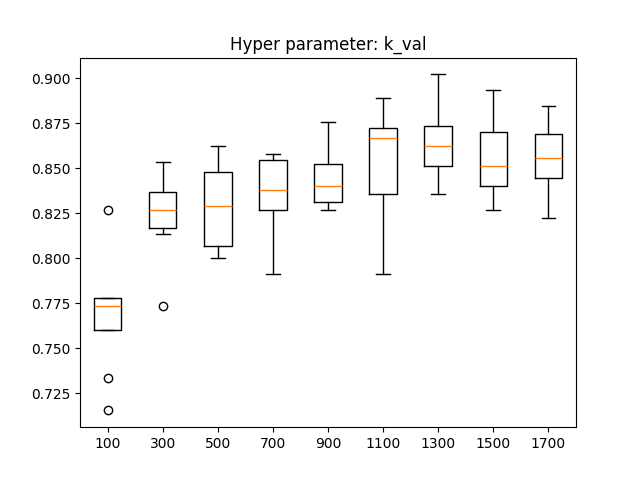
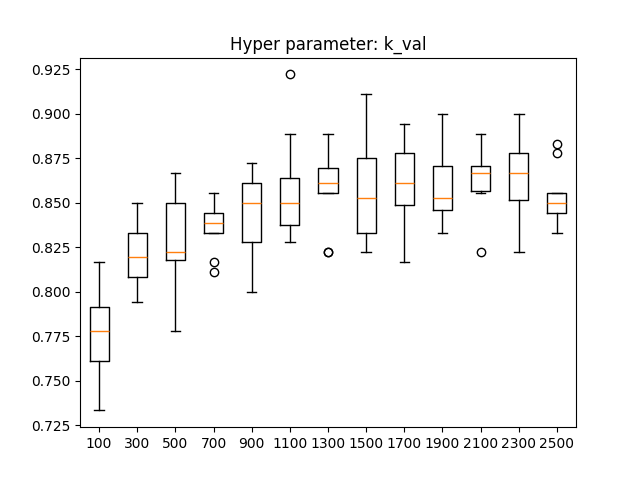
added some plots for flipped images

diff --git a/project2/code/xgboost_classifier.py b/project2/code/xgboost_classifier.py
@@ -55,6 +55,7 @@ class XGBoost:
         ).to(device)
 
         self.fit(x_train, y_train)
+
         score = self.score(x_val, y_val)
         return score
 
@@ -94,11 +95,11 @@ def main():
 
     training_labels = np.load("./data/train_labels.npy")
     training_matrix = np.load("./data/train_matrix.npy")
-    # training_matrix = np.load("./data/train_matrix_0.5_flipped.npy")
+    training_matrix = np.load("./data/train_matrix_0.5_flipped.npy")
 
     test_labels = np.load("./data/test_labels.npy")
     test_matrix = np.load("./data/test_matrix.npy")
-    # test_matrix = np.load("./data/test_matrix_0.5_flipped.npy")
+    test_matrix = np.load("./data/test_matrix_0.5_flipped.npy")
 
     classifier_settings = {
         "n_estimators": 100,
@@ -111,7 +112,7 @@ def main():
         "n_jobs": -1,
         "device": "cuda" if torch.cuda.is_available() else "cpu",
     }
-    training_settings = {"k_val": None, "lasso_c": 0.1}
+    training_settings = {"k_val": None, "lasso_c": None}
 
     kCV_settings = {
         "k": 10,
@@ -128,8 +129,9 @@ def main():
 
     params = [classifier_settings, training_settings, kCV_settings]
 
-    values = [1, 0.5, 0.25, 0.1, 0.05, 0.025, 0.001]
-    hyper_parameter_opt("lasso_c", values, "train", params, "xgboost")
+    # values = [100, 300, 500, 700, 900, 1100, 1300, 1500, 1700, 1900, 2100, 2300, 2500]
+    # values = [1, 0.5, 0.25, 0.1, 0.05, 0.025, 0.01, 0.005, 0.0025, 0.001]
+    # hyper_parameter_opt("lasso_c", values, "train", params, "xgboost_flipped")
 
     # save_model="./saved_models/xgboost_flipped.pkl")
 
@@ -143,6 +145,15 @@ def main():
 
     # print(f"Test accuracy: {test_accuracy:.4f}")
     # print("XGBoost model trained, saved, loaded, and evaluated successfully")
+    train_data = training_matrix, training_labels
+    test_data = test_matrix, test_labels
+
+    lasso_model = XGBoost(**classifier_settings)
+    score_lasso = lasso_model.train(train_data, test_data, lasso_c=0.025)
+    print(f"Lasso score: {score_lasso}")
+    f_test_filtering = XGBoost(**classifier_settings)
+    score_f_test = f_test_filtering.train(train_data, test_data, k_val=2100)
+    print(f"F-test score: {score_f_test}")
 
 
 if __name__ == "__main__":